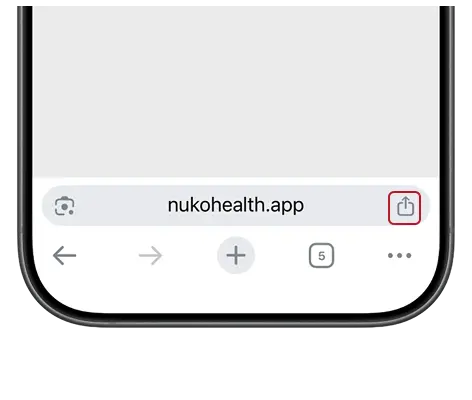
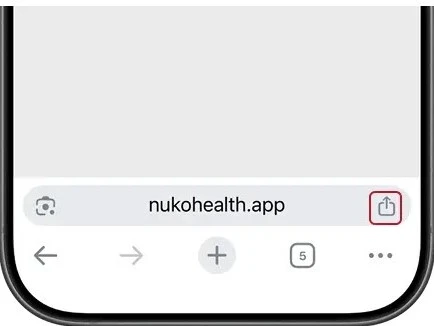
Updated the images

diff --git a/components/pwa-install-prompt.tsx b/components/pwa-install-prompt.tsx
@@ -268,7 +268,7 @@ export function PWAInstallPrompt() {
                     </div>
                   </div>
 
-                  <div className="flex flex-col gap-4 items-center text-center pb-4 px-6 bg-white border border-grey-c200 rounded-4xl">
+                  <div className="flex flex-col gap-3 items-center text-center pb-4 px-6 bg-white border border-grey-c200 rounded-4xl">
                     <Image
                       src={shareButtonSafari}
                       alt="icon image"
@@ -288,7 +288,7 @@ export function PWAInstallPrompt() {
                     </div>
                   </div>
 
-                  <div className="flex flex-col gap-4 items-center text-center pb-4 px-6 bg-white border border-grey-c200 rounded-4xl">
+                  <div className="flex flex-col gap-3 items-center text-center pb-4 px-6 bg-white border border-grey-c200 rounded-4xl">
                     <Image
                       src={addHomeScreen}
                       alt="icon image"
